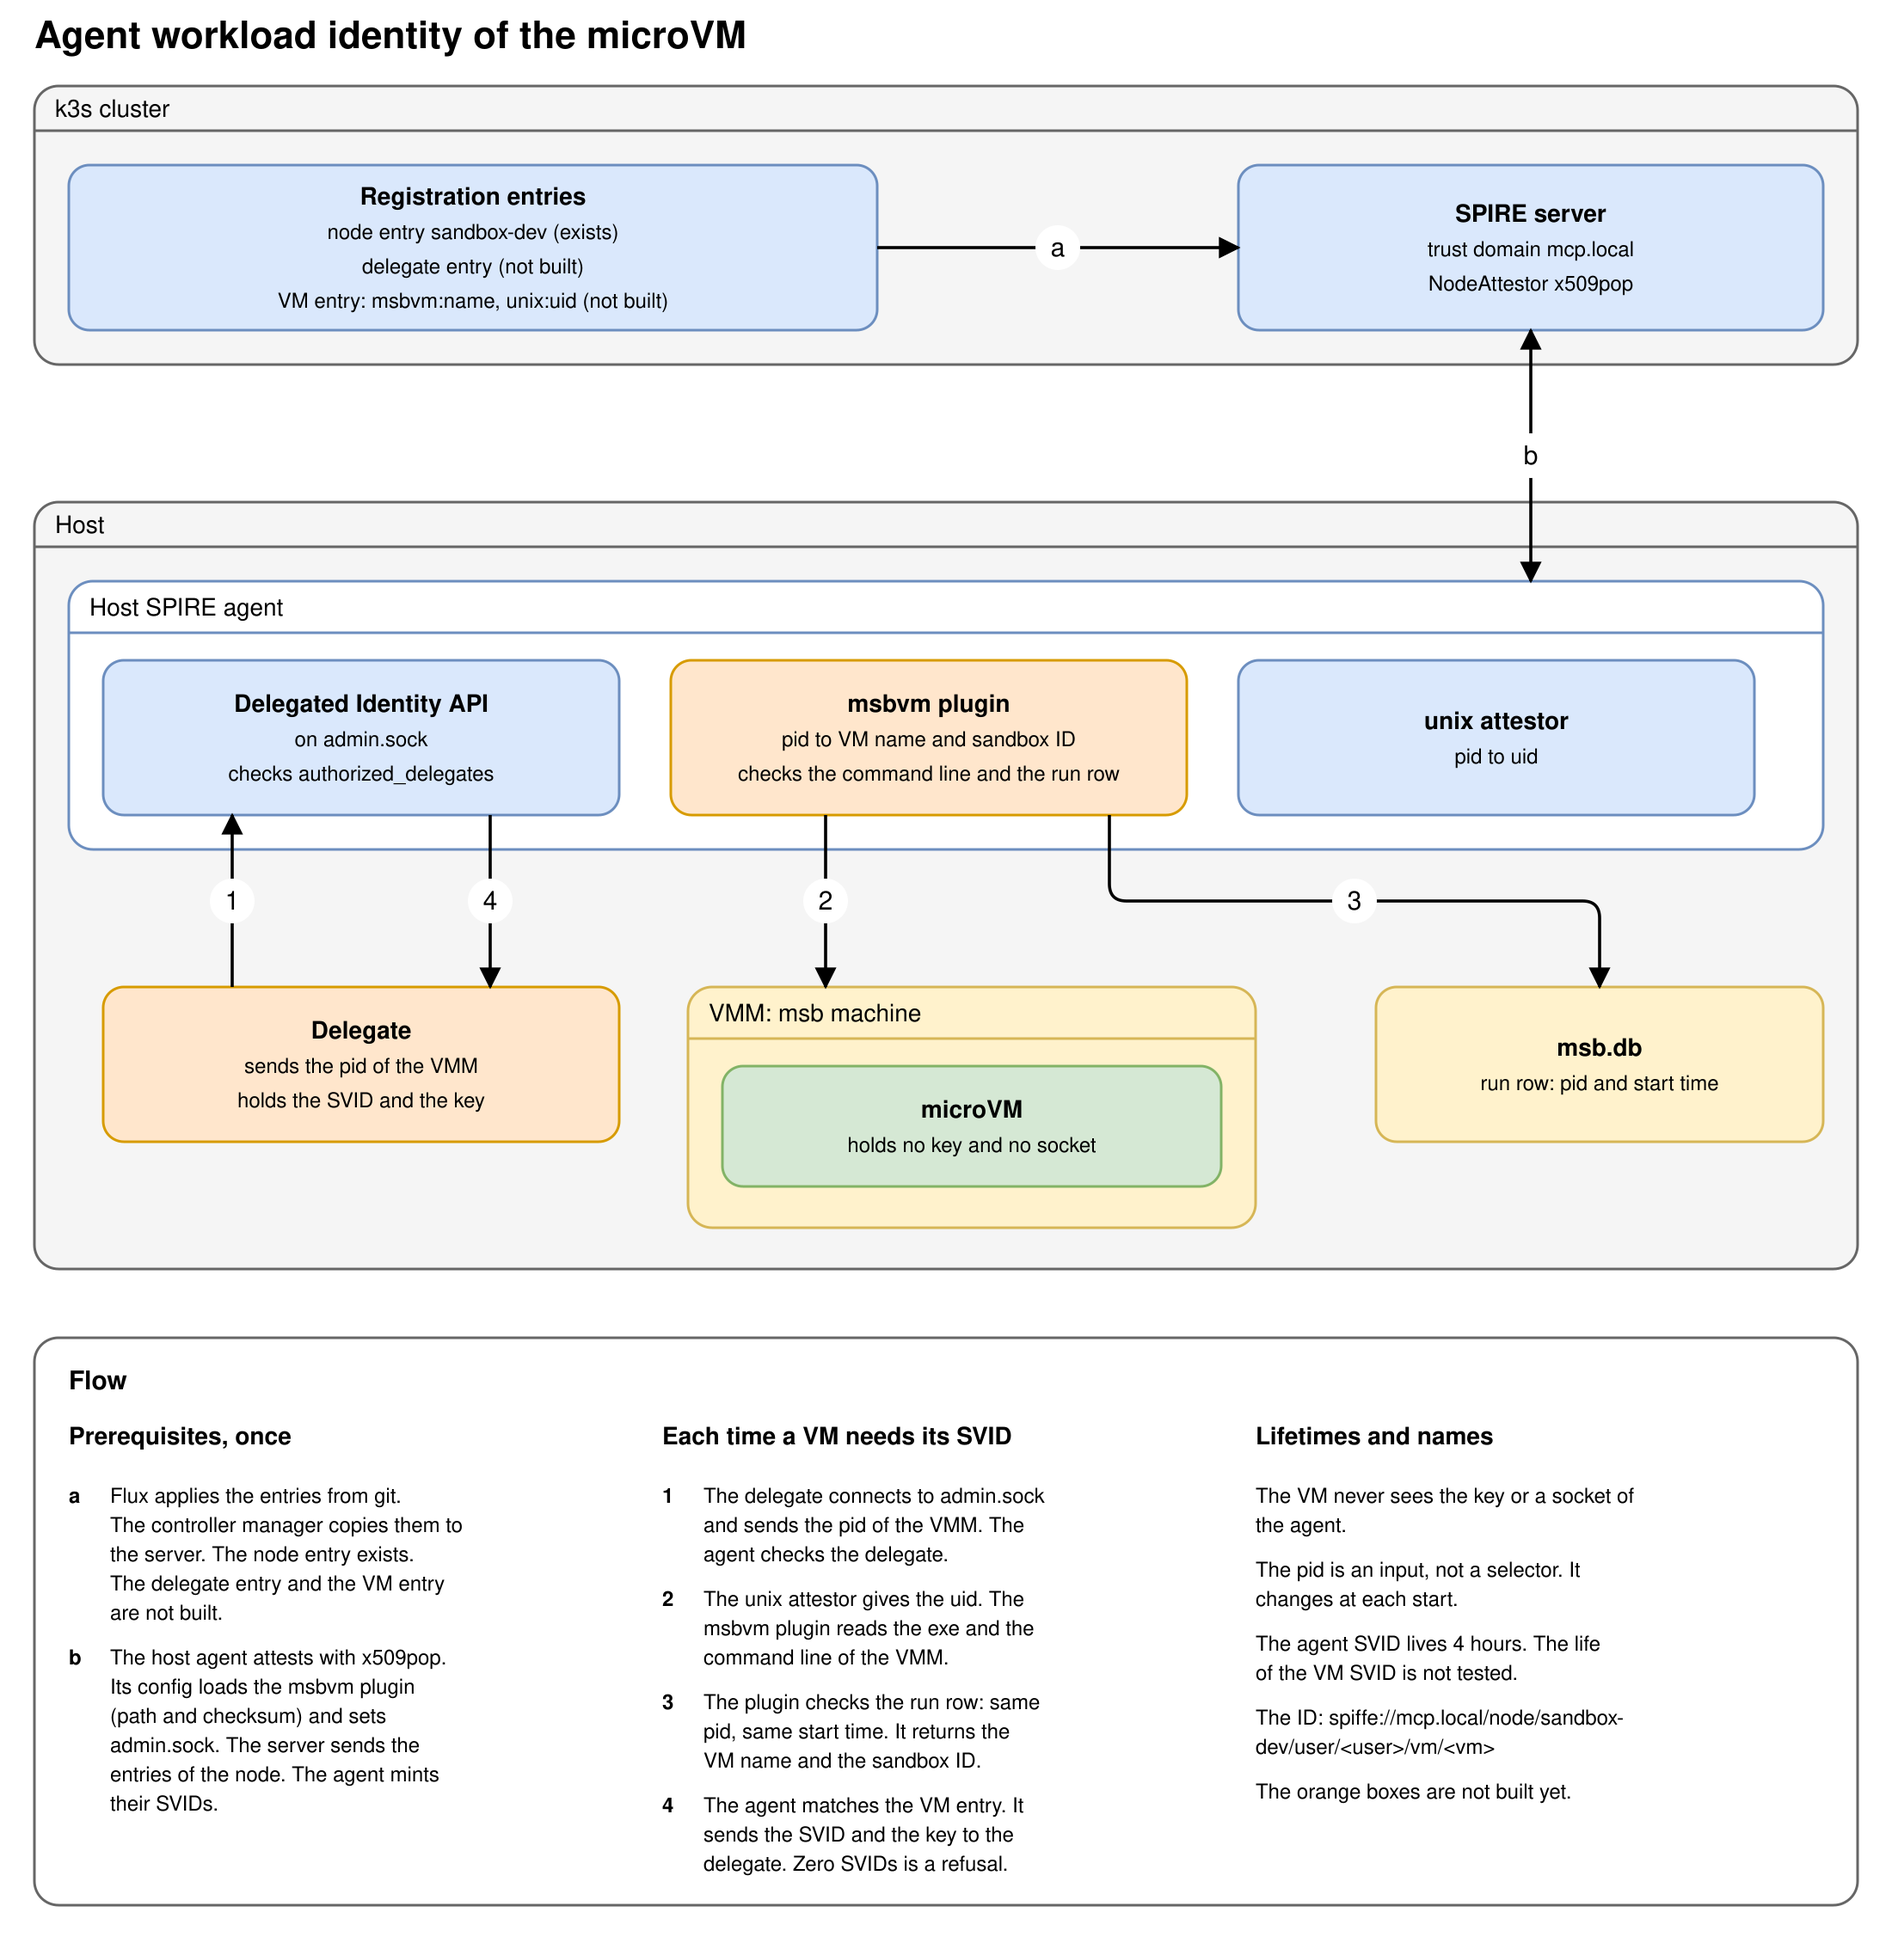
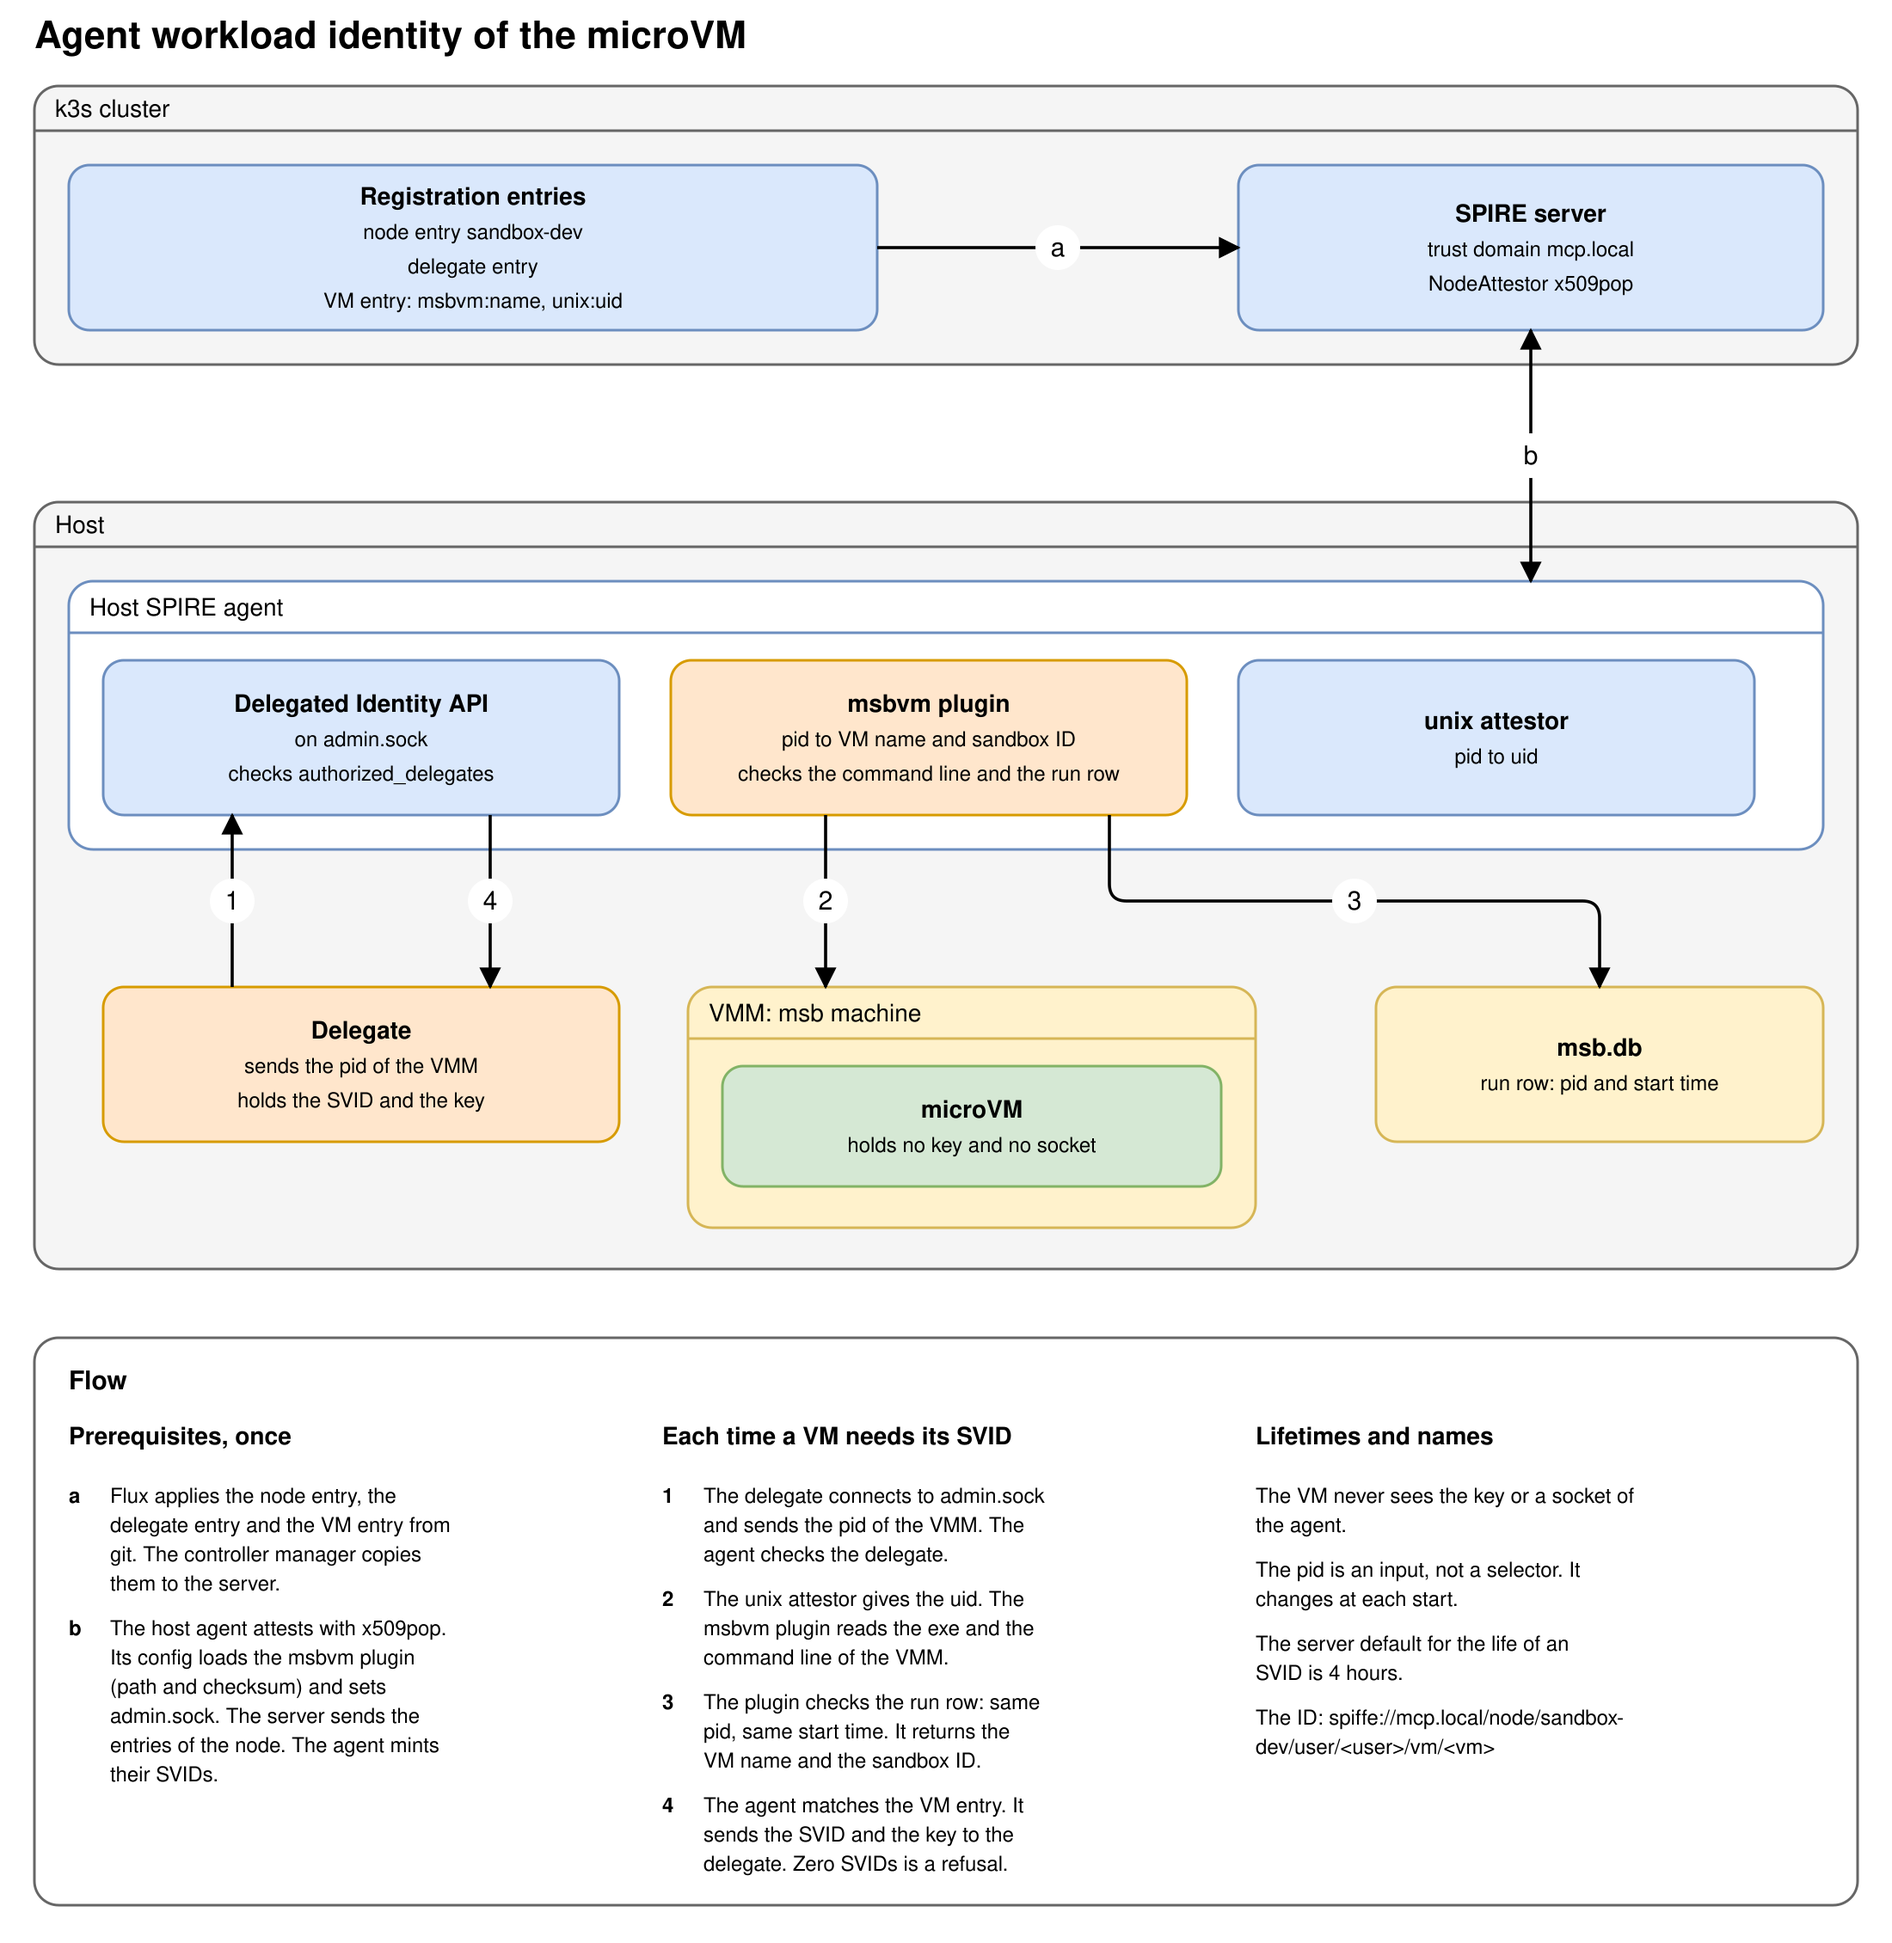
docs: show only the end state in the agent workload identity diagram
Remove the marks for built and not built parts from the diagram and its flow
panel. The guide keeps the status of each part.

diff --git a/code/agent-workload-identity/docs/workload-attestation.md b/code/agent-workload-identity/docs/workload-attestation.md
@@ -20,7 +20,7 @@ The ID has three parts: the node, the user and the VM. Example: `spiffe://mcp.lo
 
 ![Agent workload identity of the microVM: the host agent, the delegate and the msbvm plugin](diagrams/agent-workload-identity.svg)
 
-The letters a and b are the prerequisites. They happen once. The numbers 1 to 4 happen each time a VM needs its SVID. The panel below the diagram repeats the steps in words. The orange parts do not exist yet.
+The letters a and b are the prerequisites. They happen once. The numbers 1 to 4 happen each time a VM needs its SVID. The panel below the diagram repeats the steps in words. The orange parts are the ones that we write.
 
 ## The cast
 
